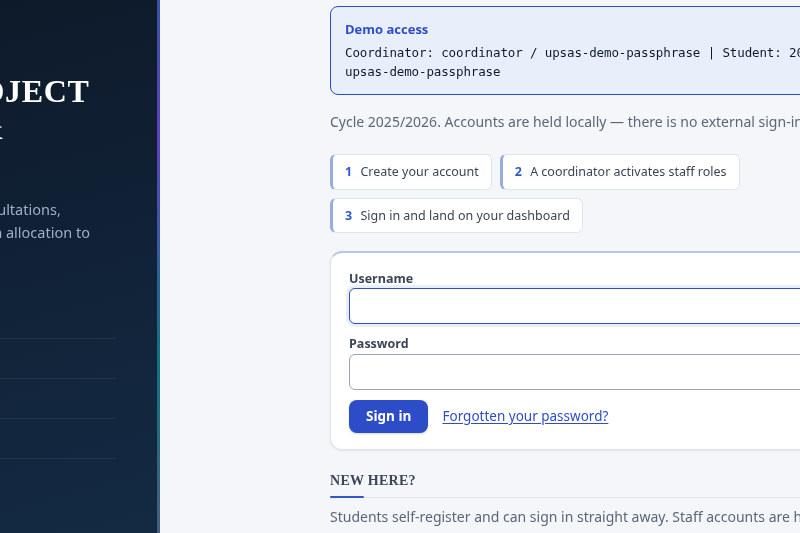
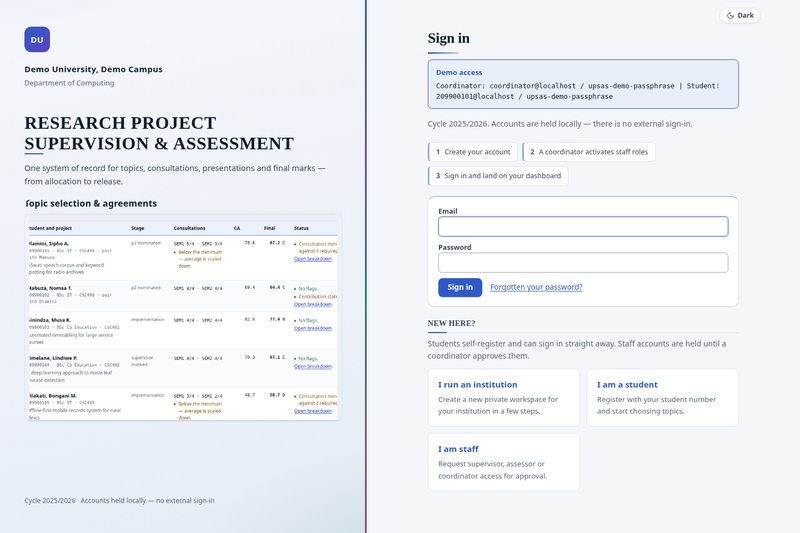
Land VPS dirty work: demo flag, screenshot/globals tweaks, assessor sheet migration
Preserve uncommitted production tweaks made directly on the VPS so future
deploys are clean:

- docker-compose: pass DISABLE_DEMO through and drop the direct 3000 port
  mapping (app is served via the reverse-proxy network)
- globals.css: contain/centre feature-slide images, disable pointer events
  on inactive slides
- public/screenshots: refreshed login/dashboard/topics/people/settings/
  book/grading/rubrics captures
- prisma: add assessor_sheet_student_component migration (nomination/member
  -> student/component model; tables empty so drop+add is safe)

diff --git a/src/app/globals.css b/src/app/globals.css
@@ -425,10 +425,10 @@ a{ transition:color .12s ease }
 .auth-gallery:hover .auth-gallery-track{ animation-play-state:paused }
 @keyframes auth-scroll{ from{ transform:translateX(0) } to{ transform:translateX(-50%) } }
 .feature-carousel{ position:relative; height:400px; margin-top:20px; overflow:hidden }
-.feature-slide{ position:absolute; inset:0; display:flex; flex-direction:column; gap:10px; opacity:0;
+.feature-slide{ position:absolute; inset:0; display:flex; flex-direction:column; gap:10px; opacity:0; pointer-events:none;
   animation:feature-cycle var(--feature-cycle,16s) linear infinite }
 .feature-slide strong{ font:600 16px/1.2 var(--sans); color:var(--ink); letter-spacing:.01em }
-.feature-slide img{ flex:1; width:100%; height:0; object-fit:cover; object-position:top;
+.feature-slide img{ flex:1; width:100%; height:0; min-height:0; object-fit:contain; object-position:center;
   box-shadow:0 6px 18px rgba(0,0,0,.15) }
 @keyframes feature-cycle{
   0%{ opacity:0; transform:translateY(8px) }
